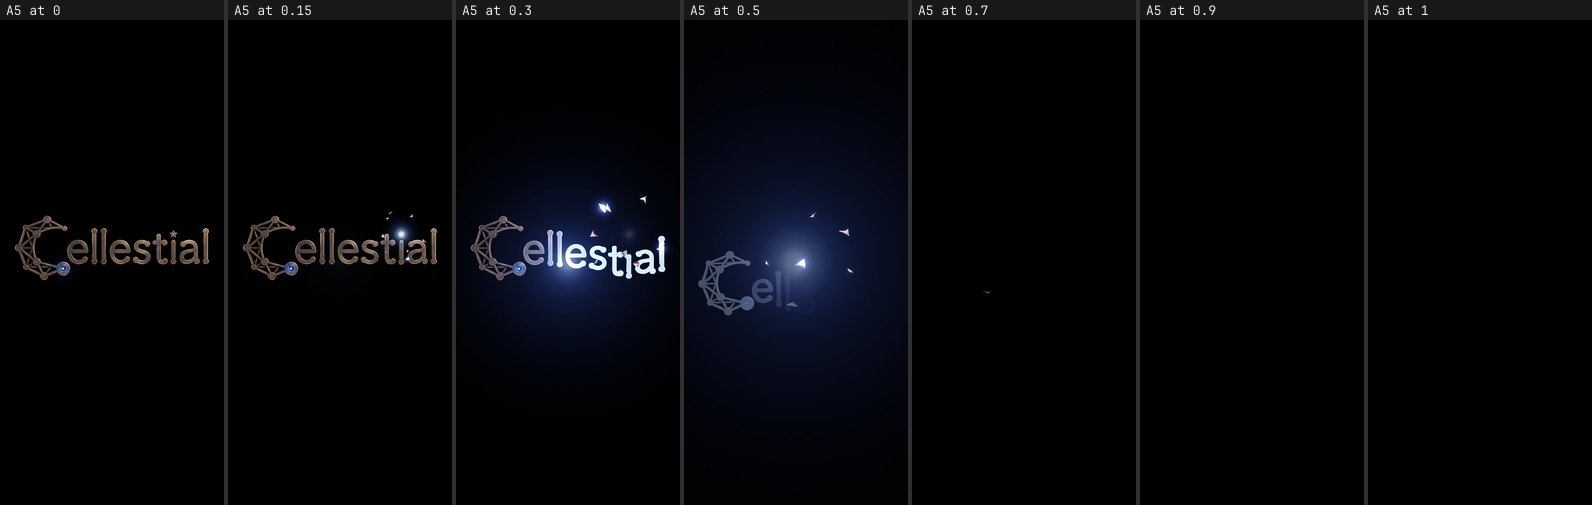
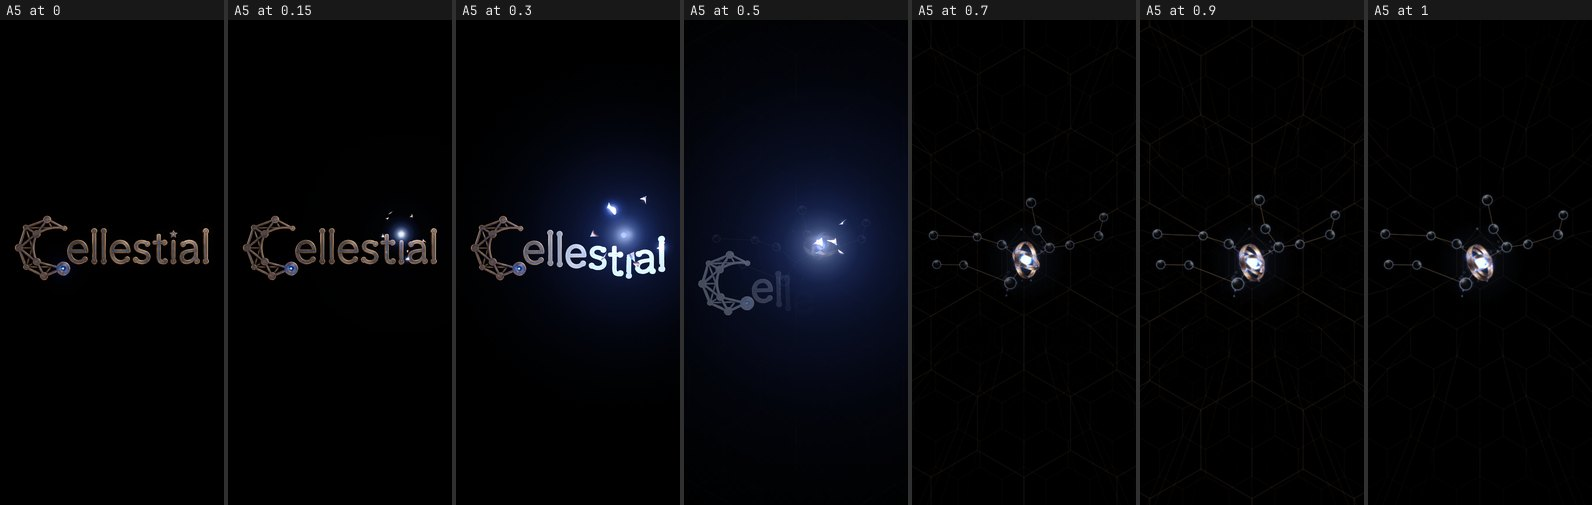
Sky, step 4: the hand-off seen over the real sky, the fall run as the contract promises
The loader's star-drop now ends on the real sky: the two a5 sheets are rebuilt.
The sky's side alone is measured (tools/sky/compare.mjs --only handoff): the core
starts exactly in the wordmark's star, and introProgress(1) and reset() differ in
0 pixels at both sizes. The fall (--only fall) against a rising ground line: every
star falls alike with a trail, onImpact fires once, it resolves, restore() puts
all of it back. No scene code changed. Part A is done.

Claude-Session: https://claude.ai/code/session_012W2mjAvaNe8UQ2tuJLbV2x

diff --git a/PROGRESS.md b/PROGRESS.md
@@ -14,25 +14,43 @@
 
 ## Exact next step
 
-**Sky scene (B, G1), part A: the world, the flight, the exit button, the hand-off. Steps 1,
-2 and 3 of 5 are done (it runs on the real page; it has been judged against its references;
-the flight, the round, the guards, reduced motion, frame times, the governor and picking are
-measured: see "Sky, part A" below the table). Next is step 4: the hand-off from the loader.**
+**Sky scene (B, G1). Part A (the world, the flight, the exit button, the hand-off, the fall)
+is done: see "Sky, part A" below the table. Next is PART B, what answers a touch, step B1:
+the beads of light (B8).**
 
 The sky's code is in `src/experience/sky/` (entry `index.ts`, three.js in `gl/`), its markup
 in `src/components/scenes/Sky.astro`. Its brief: `refs/briefs/cellestial-sky-1-*.js` (the
-strings `WHAT` and `VERIFY_A`). Drive it on the real page: `/?scene=sky&debug`, then
-`window.__cellestial.sky` is the scene, `.sky.hooks` its internal hooks (`hooks.ts`) and
-`.sky.debug` has `setCoord(layer)`, `setClock(seconds)`, `setLevel(n)`, `stats()`.
+strings `WHAT`, `BUILD_B` and `VERIFY_B`). Drive it on the real page: `/?scene=sky&debug`, then
+`window.__cellestial.sky` is the scene, `.sky.hooks` its internal hooks (`hooks.ts`: read the
+comments there, they name the event each part B piece hangs on) and `.sky.debug` has
+`setCoord(layer)`, `setClock(seconds)`, `setLevel(n)`, `stats()`.
 Two tools, both needing the dev server: `node tools/sky/compare.mjs` rebuilds the comparison
-sheets in `refs/sky/compare/`; `node tools/sky/measure.mjs` drives the page with real wheel,
-key, touch and mouse events and writes what it measured to `refs/sky/measure.txt` (86 checks;
-it exits non-zero if one fails). Run both after any change to the sky.
+sheets in `refs/sky/compare/` (`--only handoff,fall` for the two part A ones that are not in
+the default list); `node tools/sky/measure.mjs` drives the page with real wheel, key, touch
+and mouse events and writes what it measured to `refs/sky/measure.txt` (86 checks; it exits
+non-zero if one fails). Run both after any change to the sky.
 
-4. **The hand-off.** `node tools/loader/compare.mjs --only a5`, look at
-   `refs/loading/compare/a5-*.jpg`; fix on the sky's side. Check `fall()` and `restore()`.
-5. **Last.** Nothing under `src/pages/dev` or `wip/sky`; this section rewritten to point at
-   part B of the Sky (beads B8, "claim yours" B9, preview panel B10, lit-star panel).
+Part B, in order, a checkpoint after each:
+
+- **B1. The beads (B8).** A tap on empty sky (the hook `tap-empty`) sends round blue beads
+  along the honeycomb's real edges, from the vertex nearest the finger to the vertex nearest
+  the empty star nearest the touch in the layer in front, then one last hop to the star.
+  Brightest at the head, fading bead by bead; the edges they pass brighten
+  (`lattice.pulseEdge`). A new tap replaces the run. Prove the path by overlaying it on a capture.
+- **B2. The pulse and the words (B9).** The star the beads reach pulses (about a 2 s loop,
+  `setStarGlow`) with the live words "claim yours" under it, in `#sky-ui`. Ends when the
+  visitor flies away, taps elsewhere, or the star is picked or lit. Reduced motion: no
+  travelling beads, a steady glow and the words.
+- **B3. The empty-star panel (B10).** On `open-empty`: the kit's small panel beside the star,
+  five lines from `OFFERS[i].short` and `.lead`, and the small button "Claim your star"
+  (`claimFlow.openClaim(slot)`).
+- **B4. The lit-star panel.** On `open-lit`: exactly the claim's `ask`, as plain text, and a
+  close button; nothing else.
+- **B5. The waiting ask and the ignition.** `claims.unplaced()` not null: beads by themselves
+  from the middle of the screen after each stop. Walk a real send with `/api/contact` stubbed
+  to 200 and to 400.
+- **B6. Everything part A was judged on still holds;** then this section points at the Roots
+  (`refs/briefs/cellestial-roots.js`; the effects parked in `wip/fx` belong with it).
 
 Dev server: `PUBLIC_TURNSTILE_SITE_KEY=1x00000000000000000000AA pnpm astro dev --port 4500`.
 
@@ -45,8 +63,8 @@ Dev server: `PUBLIC_TURNSTILE_SITE_KEY=1x00000000000000000000AA pnpm astro dev -
 | UI kit: Quicksand, brass button (5 forms), panel, both dialogs; `/contact` and `/start` restyled | done | Screenshots looked at, both sizes: `refs/foundation/kit/`. Contrast measured (all AA). Protected files: only class and style lines changed. |
 | Experience core: scene director, claims store, claim flow, page shell with placeholder scenes | done | Build, 96 tests + worker checks, lint all pass. Walk-through at both sizes looked at: `refs/foundation/walk/` (sky → exit button → roots → build request → star; menu to all four destinations; reduced motion; no JavaScript). |
 | **Independent review of the foundation** | **not done** | Three reviewers were started and cut off after six minutes. No findings exist. Do it as part of final verification. |
-| Loading (A1–A5) | **done against the reference, polish pass included, except what is listed here; A5 seen only over the placeholder sky** — `src/experience/loader/`, `src/components/scenes/Loader.astro`, asset module `scripts/assets/loader.mjs` (run by `node scripts/build-assets.mjs modules`; it writes `geometry.ts` and the matte, and run again it reproduces both) | Frozen at 14 times at 1440×900, no console errors, set beside the reference and looked at: `refs/loading/compare/desk-1.jpg`, `desk-2.jpg` (six rounds of fixes, then the polish pass of four items, each looked at close up: see the section below the table). Matches: the C's place and size; the order and tempo the circuits light in (a thin white wire with a blue glow); the cooling before the charge; the overload (a thin white-hot bolt from the top edge, the node lost in white with its rings showing through, a blue wash filling the bolt's half of the frame, spark dust); the camera pulling back; the first "e" thrown from the node by one tall arc and written in the reference's order; each letter written at the reference's moment as one thin white tube on its brass, with white ring nodes, in a wide navy haze; the node's rings lit white while the word is written; the cooling into the A4 picture itself. The two soft fields (the haze behind the letters, the overload's wash) were also measured, reference against build: `refs/loading/compare/light.txt`, written by `node tools/loader/light.mjs`. **Still different:** the lit circuits (1.33) are whiter, with less blue around them; the first arc (3.67) is less wild and the first piece of the "e" bolder; the overload's white has a more definite edge than the reference's bloom, and its sparks are coarser and fewer; close to the letter being written the haze is a little weaker (3.83) and the letters' edges cooler; once a letter is written the reference lets lightning play over it for longer, and it strikes the star (5.25) where the build only lights it; the node's lens keeps a darker blue ring round its white heart. **Phone (390×844, scale 2, touch):** the same 14 times looked at, `refs/loading/compare/phone-1.jpg`, `phone-2.jpg`: nothing clipped, the C is 62% of the width, the word fits at 87% with margins, the bolt comes down from the top edge. **Rules, measured in real time with `node tools/loader/measure.mjs` (mount to done) after the polish pass, desktop / phone:** full version 7.74 s / 7.73 s (must be 6.0–8.0); short version on a same-session reload 3.49 s / 3.47 s; tap at 1 s ends at 2.76 s / 2.76 s, the "a" key at 1 s 2.74 s / 2.75 s; Tab, Shift, Control, Alt, Meta, CapsLock at 1 s do not skip (7.75 s / 7.73 s); resize twice mid-run keeps the time (7.74 s / 7.75 s). Desktop only: each of the four pictures answering 404 in turn, the loader ends at once (0.01 s) and the sky is shown; sessionStorage blocked plays the full version (7.71 s); the sky's script failing to load, the loader fades out by itself at 6.62 s and the page opens on the Roots; the sky 30 s late, the wordmark holds 6 s and the loader goes at 12.65 s. Frame times 16.8–17.1 ms average at both sizes; phone with the CPU slowed 4×: 26.9 ms average, 50 ms at the 95th percentile, run 7.92 s. **A5 (the star-drop), both sizes, looked at:** `refs/loading/compare/a5-desk.jpg`, `a5-phone.jpg` (0, 0.15, 0.3, 0.5, 0.7, 0.9, 1.0 of its 1.5 s) and full-size crops: the star flashes and breaks into shards (eight or nine) cut from its own pixels, which tumble, catch the light, sweep out and home in on `sky.coreCircle()`, gone by 0.7; a blue-white light swells from the core and the letters bleach, nearest the star first, and sink, gone by 0.6. Over the placeholder sky this ends on black, and the light is centred on the middle of the screen, not on the star: to be looked at again with the real sky. **Short version** looked at again after the polish pass, both sizes: `refs/loading/compare/short.jpg` (the lit C in place, one bolt from the node writes the nine letters in about a second, cools, holds). **Also checked:** the same second always draws the same picture (two pages, and after seeking away and back: identical screenshots); after `done` the overlay is `display: none`, the canvas is 0×0 and the scene is the sky; with reduced motion the loader never shows; without script the cover is not on the page; the server-rendered C sits where the canvas draws it to 0.01 px at 1440×900, 390×844 and 844×390. **Not done:** frame times on a real phone (only headless Chromium with the CPU slowed); landscape phone, tablet and ultrawide framing were not looked at as pictures. |
-| Sky (B, G1) | **part A in progress: it runs on the real page, has been judged against its references, and its flight, round, guards, reduced motion, frame times, governor and picking are measured; the hand-off from the loader and the fall not yet looked at** — `src/experience/sky/`, `src/components/scenes/Sky.astro`, `tools/sky/compare.mjs`, `tools/sky/measure.mjs`. Part B (beads B8, pulse B9, panels B10) not started. | See "Sky, part A" below the table: what was run, looked at and measured at each step, and what still differs. Sheets: `refs/sky/compare/`. Numbers: `refs/sky/measure.txt`. |
+| Loading (A1–A5) | **done against the reference, polish pass included, except what is listed here; A5 now seen over the real sky (see "Sky, part A", step 4)** — `src/experience/loader/`, `src/components/scenes/Loader.astro`, asset module `scripts/assets/loader.mjs` (run by `node scripts/build-assets.mjs modules`; it writes `geometry.ts` and the matte, and run again it reproduces both) | Frozen at 14 times at 1440×900, no console errors, set beside the reference and looked at: `refs/loading/compare/desk-1.jpg`, `desk-2.jpg` (six rounds of fixes, then the polish pass of four items, each looked at close up: see the section below the table). Matches: the C's place and size; the order and tempo the circuits light in (a thin white wire with a blue glow); the cooling before the charge; the overload (a thin white-hot bolt from the top edge, the node lost in white with its rings showing through, a blue wash filling the bolt's half of the frame, spark dust); the camera pulling back; the first "e" thrown from the node by one tall arc and written in the reference's order; each letter written at the reference's moment as one thin white tube on its brass, with white ring nodes, in a wide navy haze; the node's rings lit white while the word is written; the cooling into the A4 picture itself. The two soft fields (the haze behind the letters, the overload's wash) were also measured, reference against build: `refs/loading/compare/light.txt`, written by `node tools/loader/light.mjs`. **Still different:** the lit circuits (1.33) are whiter, with less blue around them; the first arc (3.67) is less wild and the first piece of the "e" bolder; the overload's white has a more definite edge than the reference's bloom, and its sparks are coarser and fewer; close to the letter being written the haze is a little weaker (3.83) and the letters' edges cooler; once a letter is written the reference lets lightning play over it for longer, and it strikes the star (5.25) where the build only lights it; the node's lens keeps a darker blue ring round its white heart. **Phone (390×844, scale 2, touch):** the same 14 times looked at, `refs/loading/compare/phone-1.jpg`, `phone-2.jpg`: nothing clipped, the C is 62% of the width, the word fits at 87% with margins, the bolt comes down from the top edge. **Rules, measured in real time with `node tools/loader/measure.mjs` (mount to done) after the polish pass, desktop / phone:** full version 7.74 s / 7.73 s (must be 6.0–8.0); short version on a same-session reload 3.49 s / 3.47 s; tap at 1 s ends at 2.76 s / 2.76 s, the "a" key at 1 s 2.74 s / 2.75 s; Tab, Shift, Control, Alt, Meta, CapsLock at 1 s do not skip (7.75 s / 7.73 s); resize twice mid-run keeps the time (7.74 s / 7.75 s). Desktop only: each of the four pictures answering 404 in turn, the loader ends at once (0.01 s) and the sky is shown; sessionStorage blocked plays the full version (7.71 s); the sky's script failing to load, the loader fades out by itself at 6.62 s and the page opens on the Roots; the sky 30 s late, the wordmark holds 6 s and the loader goes at 12.65 s. Frame times 16.8–17.1 ms average at both sizes; phone with the CPU slowed 4×: 26.9 ms average, 50 ms at the 95th percentile, run 7.92 s. **A5 (the star-drop), both sizes, looked at:** `refs/loading/compare/a5-desk.jpg`, `a5-phone.jpg` (0, 0.15, 0.3, 0.5, 0.7, 0.9, 1.0 of its 1.5 s) and full-size crops: the star flashes and breaks into shards (eight or nine) cut from its own pixels, which tumble, catch the light, sweep out and home in on `sky.coreCircle()`, gone by 0.7; a blue-white light swells from the core and the letters bleach, nearest the star first, and sink, gone by 0.6. Over the placeholder sky this ends on black, and the light is centred on the middle of the screen, not on the star: to be looked at again with the real sky. **Short version** looked at again after the polish pass, both sizes: `refs/loading/compare/short.jpg` (the lit C in place, one bolt from the node writes the nine letters in about a second, cools, holds). **Also checked:** the same second always draws the same picture (two pages, and after seeking away and back: identical screenshots); after `done` the overlay is `display: none`, the canvas is 0×0 and the scene is the sky; with reduced motion the loader never shows; without script the cover is not on the page; the server-rendered C sits where the canvas draws it to 0.01 px at 1440×900, 390×844 and 844×390. **Not done:** frame times on a real phone (only headless Chromium with the CPU slowed); landscape phone, tablet and ultrawide framing were not looked at as pictures. |
+| Sky (B, G1) | **part A done: it runs on the real page, has been judged against its references, its flight, round, guards, reduced motion, frame times, governor and picking are measured, and the hand-off from the loader and the fall have been looked at and measured.** Part B (beads B8, pulse B9, panels B10, the lit-star panel, the waiting ask) not started. — `src/experience/sky/`, `src/components/scenes/Sky.astro`, `tools/sky/compare.mjs`, `tools/sky/measure.mjs` | See "Sky, part A" below the table: what was run, looked at and measured at each step, and what still differs. Sheets: `refs/sky/compare/`. Numbers: `refs/sky/measure.txt`. |
 | Effects (C4 flash, D2 burst, G2 warp) | **parked, unverified** — `wip/fx/`, about 2,600 lines, complete with a test page | Builder's own captures only: `refs/fx-wip/`. |
 | Roots (E1–E6) | not started (placeholder shows the five tiles as plain panels) | — |
 | Close (F1, F2) | placeholder (the two real buttons, wired to the existing flows) | Walk-through above. |
@@ -148,6 +166,32 @@ camera first moved, so at the opening pose and under reduced motion no star coul
 so speed could never build (a finger's press now waits 90 ms to see whether it is a swipe, a
 swipe counts as continued scrolling for half a second, and built-up speed is forgotten over
 3 s instead of 1.6); the wheel flew the sky while a form field had focus.
+
+**Step 4, the hand-off and the fall (20 Nov).** Nothing had to be changed in the sky or in
+the loader.
+- **The hand-off over the real sky.** `node tools/loader/compare.mjs --only a5` rebuilt
+  `refs/loading/compare/a5-desk.jpg` and `a5-phone.jpg`, both looked at: at 0 the wordmark
+  stands with its little star; by 0.15 the star has flashed and the sky's core is the light
+  in its place; the core travels and grows towards the middle while the letters bleach and
+  sink (the loader's light is now centred on the core, which it was not over the placeholder);
+  by 0.7 the core is at the middle with its rings gathered, and Virgo and the honeycomb are up
+  out of the black; 1.0 is the opening pose.
+- **The sky's side alone**, `node tools/sky/compare.mjs --only handoff`
+  (`refs/sky/compare/handoff.jpg`, `handoff-phone.jpg`): primed at the star's circle, the core
+  is exactly there and that size (1440×900: 1108, 318, r 6.00; phone: 300, 398, r 2.40), then
+  at 0.3, 0.5, 0.7, 0.85 and 1 it is at x 1028, 878, 757, 724, 720 with radius 9.2, 14.4,
+  21.8, 26.5, 27.6 (phone: x 278, 238, 205, 196, 195; r 3.5, 5.2, 7.4, 8.8, 9.0). The picture
+  at `introProgress(1)` and the picture after `reset()` at the same clock differ in **0
+  pixels** at both sizes: there is no jump when the director takes over.
+- **The fall as the contract promises it**, `node tools/sky/compare.mjs --only fall`
+  (`refs/sky/compare/fall.jpg`, `fall-phone.jpg`), against a ground line that rises from the
+  bottom edge to 55% of the height in 1.2 s: every star, lit or empty, drops straight down
+  with a trail, each starting within 0.28 s of the first; the honeycomb, the figure's lines
+  and Cellestial's star fade out; `onImpact` fired once (1440×900: x 644, 0.42 s in; phone:
+  x 170 of 390, 0.48 s in); the promise resolved at 1.46 s and 1.32 s with the sky empty;
+  after `restore()` all 12 of Virgo's stars are where they were (to 0.01 px) and the
+  honeycomb and Cellestial's star are back. The full transition (the soil rising over the
+  canvas, the burst) is not built: it belongs to the Roots.
 
 **Hooks for part B** (in `src/experience/sky/hooks.ts`, reached with `hooksOf(scene)` from
 `index.ts`): events `open-empty` `{ slot, circle }` (an empty star was picked and no ask was
@@ -336,3 +380,6 @@ than two tries. All four were reached.
 - 2026-11-20 — Sky, part A, step 3: the flight driven for real and measured (86 checks);
   three faults found and fixed (star buttons not placed at rest, swipes that could not build
   speed, the wheel flying under a focused form field); the hooks for part B named.
+- 2026-11-20 — Sky, part A, step 4: the hand-off looked at over the real sky (a5 sheets rebuilt)
+  and measured alone (0 pixels between `introProgress(1)` and `reset()`); the fall run against
+  a rising ground line (one impact, resolves, `restore()` puts everything back). Part A done.
